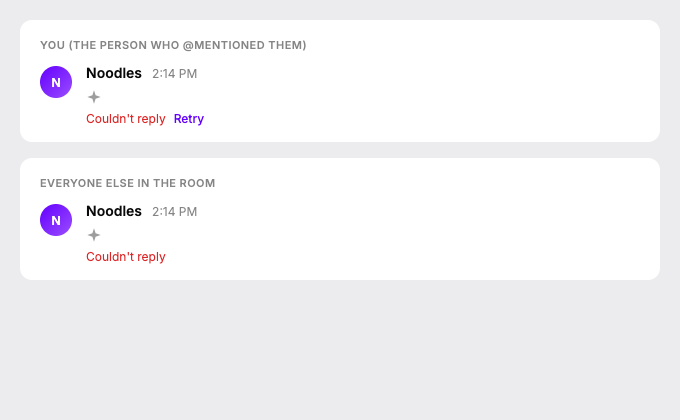
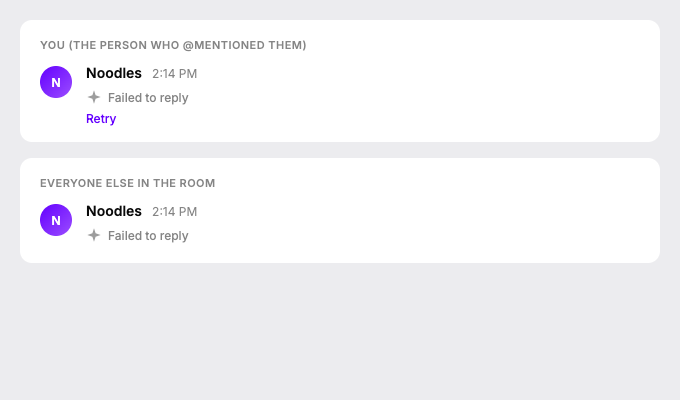
fix(chat): put Failed to reply on the Thought line
Sparkle header uses the same copy family as Failed to send.
Retry stays in the outbound footer for the mentioner only.

Changed region(s): [[0.0618, 0.42, 0.3397, 0.63], [0.0618, 0.15, 0.3088, 0.33], [0.0618, 0.09, 0.4632, 0.12]]

diff --git a/apps/web/src/app/(app)/chat/components/room-message-row.tsx b/apps/web/src/app/(app)/chat/components/room-message-row.tsx
@@ -1468,23 +1468,22 @@ function FailedMentionActions({
   onRetryMention?: () => void;
 }) {
   const t = useTranslations("App.Channels");
+  if (!onRetryMention) {
+    return null;
+  }
   return (
     <div
-      className="text-muted-foreground flex w-fit max-w-full flex-wrap items-center gap-x-2 gap-y-1 pt-0.5 text-xs"
+      className="flex w-fit max-w-full flex-wrap items-center gap-x-2 gap-y-1 pt-0.5 text-xs"
       data-testid="coworker-mention-failed"
-      role="status"
     >
-      <span className="text-destructive">{t("MentionStatus.failed")}</span>
-      {onRetryMention ? (
-        <button
-          type="button"
-          className="text-primary hover:text-primary/80 font-medium"
-          data-testid="coworker-mention-retry"
-          onClick={onRetryMention}
-        >
-          {t("MentionStatus.retry")}
-        </button>
-      ) : null}
+      <button
+        type="button"
+        className="text-primary hover:text-primary/80 font-medium"
+        data-testid="coworker-mention-retry"
+        onClick={onRetryMention}
+      >
+        {t("MentionStatus.retry")}
+      </button>
     </div>
   );
 }
@@ -1887,7 +1886,9 @@ export function ChatMessageRow({
                 />
               ) : isFailedMentionThoughtShell(message.metadata) ? (
                 <>
-                  <CoworkerFailedThoughtSparkle />
+                  <CoworkerFailedThoughtSparkle
+                    label={tChannels("MentionStatus.failed")}
+                  />
                   <FailedMentionActions
                     onRetryMention={
                       onRetryMention ? () => onRetryMention(message) : undefined

diff --git a/apps/web/src/app/(app)/chat/components/__tests__/room-message-row.test.tsx b/apps/web/src/app/(app)/chat/components/__tests__/room-message-row.test.tsx
@@ -1915,13 +1915,15 @@ describe("ChatMessageRow coworker Thought", () => {
       }),
     });
 
-    expect(screen.getByTestId("coworker-thought-sparkle")).toBeInTheDocument();
-    expect(screen.getByTestId("coworker-mention-failed")).toHaveTextContent(
+    expect(screen.getByTestId("coworker-thought-sparkle")).toHaveTextContent(
       "MentionStatus.failed",
     );
     expect(screen.queryByTestId("live-stream-elapsed")).not.toBeInTheDocument();
     expect(
       screen.queryByTestId("coworker-thought-trace"),
+    ).not.toBeInTheDocument();
+    expect(
+      screen.queryByTestId("coworker-mention-failed"),
     ).not.toBeInTheDocument();
     expect(
       screen.queryByTestId("coworker-mention-retry"),
@@ -1942,7 +1944,9 @@ describe("ChatMessageRow coworker Thought", () => {
 
     renderRow({ message, onRetryMention });
 
-    expect(screen.getByTestId("coworker-thought-sparkle")).toBeInTheDocument();
+    expect(screen.getByTestId("coworker-thought-sparkle")).toHaveTextContent(
+      "MentionStatus.failed",
+    );
     await user.click(screen.getByTestId("coworker-mention-retry"));
     expect(onRetryMention).toHaveBeenCalledWith(message);
     expect(screen.getByTestId("coworker-mention-retry")).toHaveTextContent(

diff --git a/apps/web/src/app/(app)/chat/components/coworker-thought-ui.tsx b/apps/web/src/app/(app)/chat/components/coworker-thought-ui.tsx
@@ -62,21 +62,27 @@ function ThoughtSparkle({ working }: { working: boolean }) {
   );
 }
 
-/** Settled sparkle on a failed mention shell so Thinking → fail does not swap widgets. */
+/** Settled Thought header for a failed mention shell. */
 export function CoworkerFailedThoughtSparkle({
+  label,
   className,
 }: {
+  label: string;
   className?: string;
 }) {
   return (
     <div
       className={cn(
-        "-mx-1 flex min-h-6 w-fit max-w-full items-center rounded-md px-1 py-0.5",
+        "-mx-1 flex min-h-6 w-fit max-w-full items-center gap-1.5 rounded-md px-1 py-0.5",
         className,
       )}
       data-testid="coworker-thought-sparkle"
+      role="status"
     >
       <ThoughtSparkle working={false} />
+      <span className="text-muted-foreground truncate text-xs font-medium whitespace-nowrap">
+        {label}
+      </span>
     </div>
   );
 }
